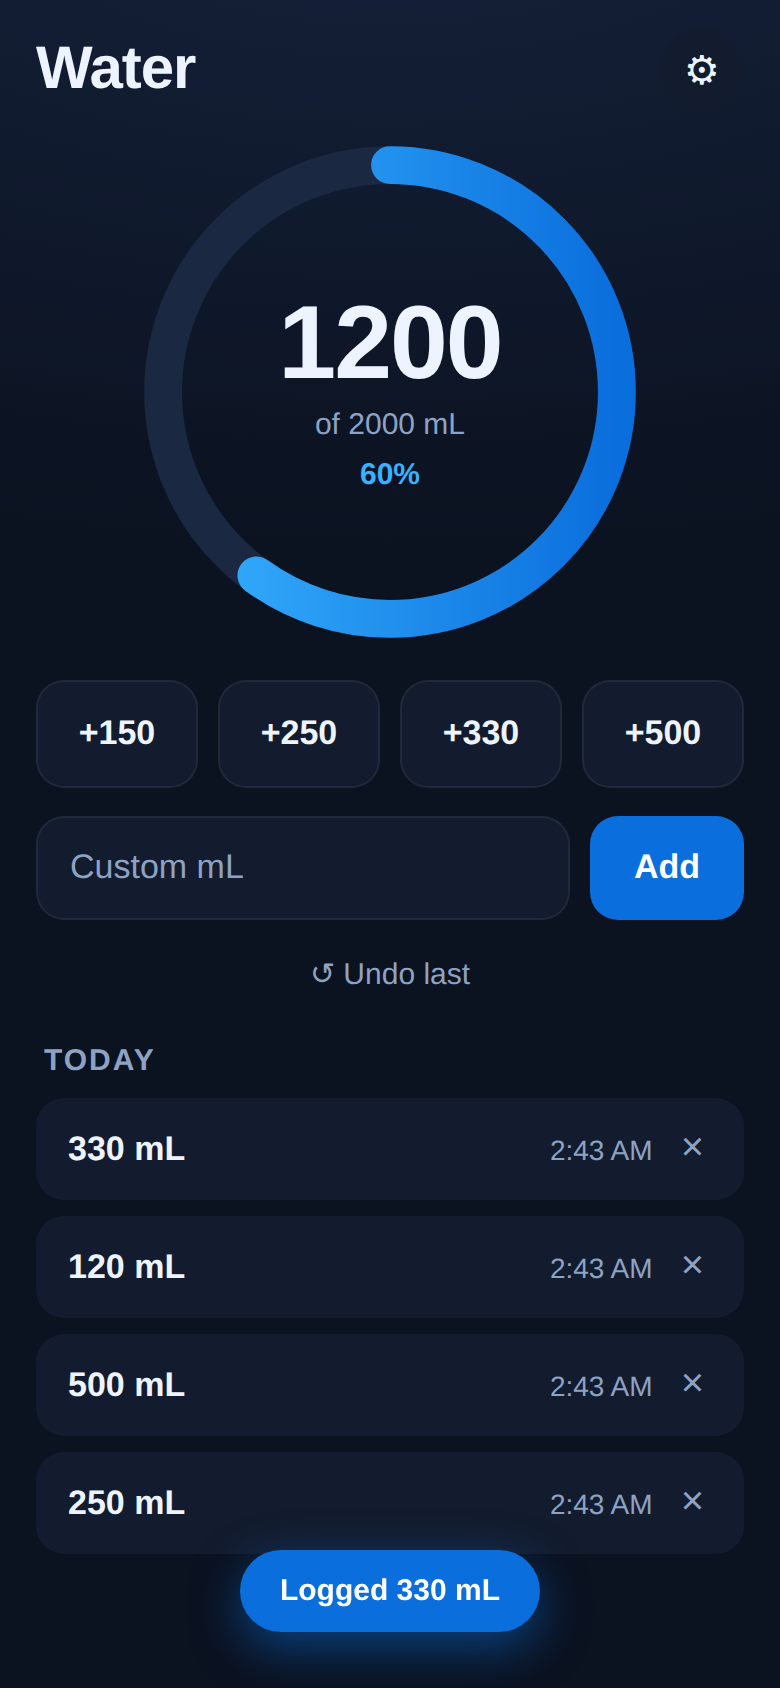
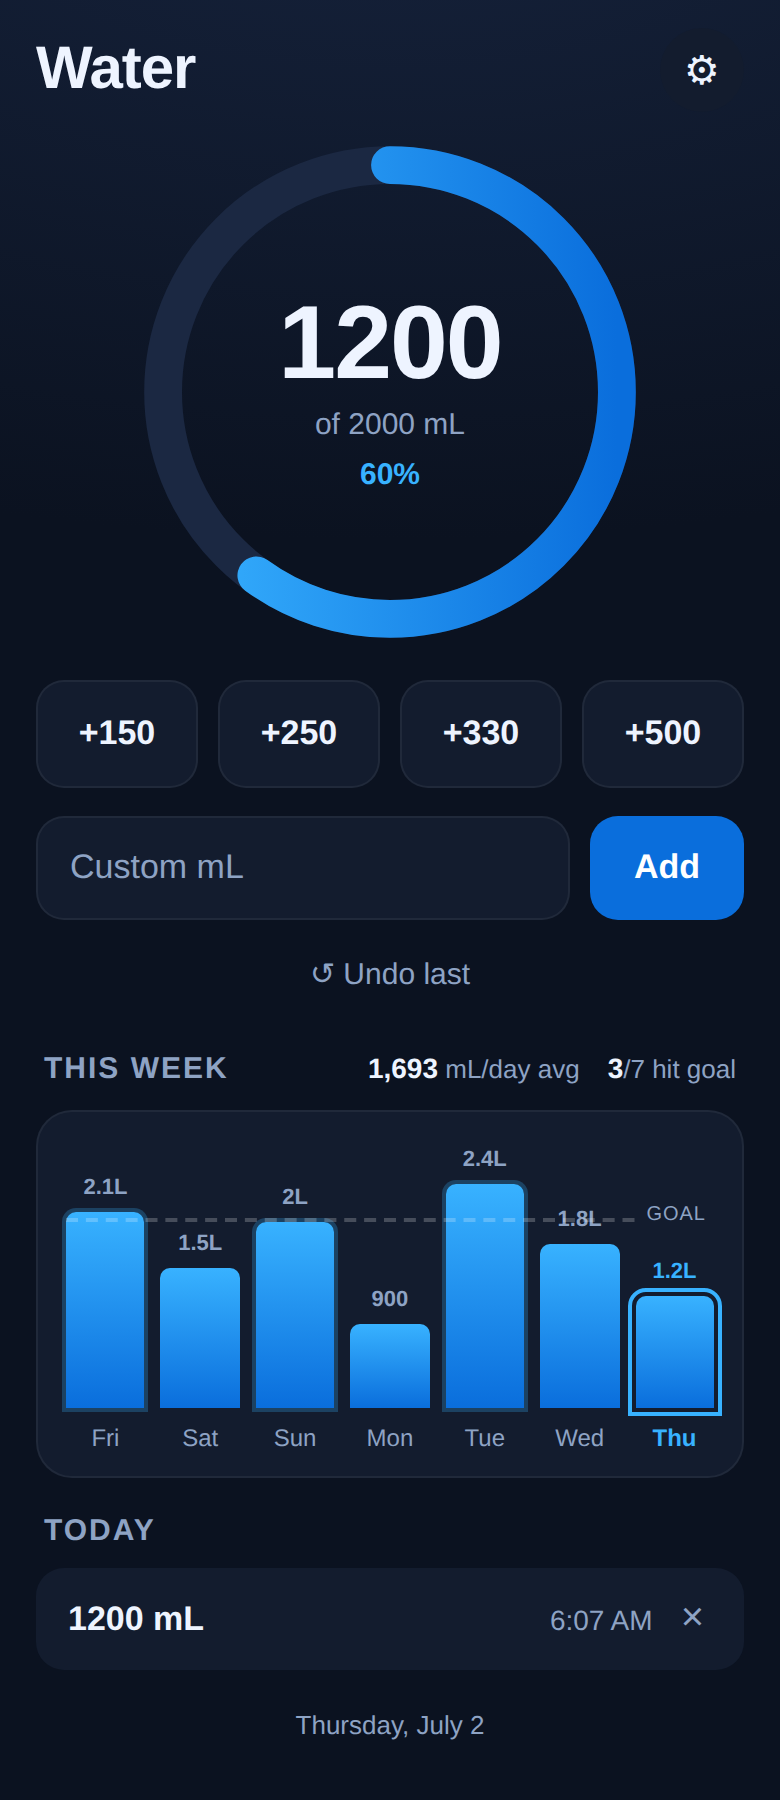
Add weekly dashboard of daily fluid intake
- Bar chart of the last 7 days (totals per day) with a dashed goal line
- Today highlighted; goal-met days marked; tap a bar for its exact total
- Weekly stats: average mL/day and number of days the goal was hit
- Values shown in L/mL; bars scale to the taller of goal or peak day
- Bumped service-worker cache to v2; extended smoke test to cover the chart

Claude-Session: https://claude.ai/code/session_01VM7W3BZjdm7NcmpQC72UCf

diff --git a/app.js b/app.js
@@ -17,6 +17,14 @@
     return d.getFullYear() + "-" + m + "-" + day;
   }
 
+  function dayKeyOffset(n) {
+    // Key for the day that is n days before today (n>=0), in local time.
+    var d = new Date();
+    d.setHours(12, 0, 0, 0); // noon avoids DST edge cases when subtracting days
+    d.setDate(d.getDate() - n);
+    return { key: todayKey(d), date: d };
+  }
+
   function prettyDate(key) {
     var parts = key.split("-");
     var d = new Date(+parts[0], +parts[1] - 1, +parts[2]);
@@ -76,7 +84,12 @@
     toast: document.getElementById("toast"),
     settingsSheet: document.getElementById("settingsSheet"),
     goalInput: document.getElementById("goalInput"),
-    customInput: document.getElementById("customInput")
+    customInput: document.getElementById("customInput"),
+    weekPlot: document.getElementById("weekPlot"),
+    weekDays: document.getElementById("weekDays"),
+    goalLine: document.getElementById("goalLine"),
+    weekAvg: document.getElementById("weekAvg"),
+    weekGoalDays: document.getElementById("weekGoalDays")
   };
 
   el.ringFill.style.strokeDasharray = RING_CIRC.toFixed(2);
@@ -128,6 +141,79 @@
     });
 
     el.dateLabel.textContent = prettyDate(todayKey());
+    renderWeek();
+  }
+
+  function dayTotal(key) {
+    var arr = state.days[key] || [];
+    return arr.reduce(function (s, e) { return s + e.amount; }, 0);
+  }
+
+  function renderWeek() {
+    var goal = state.goal;
+    var todayK = todayKey();
+
+    // Oldest -> newest across the last 7 days (index 0 = 6 days ago).
+    var days = [];
+    for (var n = 6; n >= 0; n--) days.push(dayKeyOffset(n));
+
+    var totals = days.map(function (d) { return dayTotal(d.key); });
+    var maxTotal = Math.max.apply(null, totals);
+    // Headroom above the taller of goal / peak day so value labels never clip.
+    var scaleMax = Math.max(goal, maxTotal) * 1.18 || 1;
+
+    // Weekly stats.
+    var sum = totals.reduce(function (a, b) { return a + b; }, 0);
+    var hit = totals.filter(function (t) { return t >= goal; }).length;
+    el.weekAvg.textContent = Math.round(sum / 7).toLocaleString();
+    el.weekGoalDays.textContent = hit;
+
+    // Goal reference line.
+    el.goalLine.style.bottom = (Math.min(1, goal / scaleMax) * 100).toFixed(1) + "%";
+
+    // Rebuild bars + day labels (keep the goal line node).
+    Array.prototype.slice.call(el.weekPlot.querySelectorAll(".bar"))
+      .forEach(function (b) { b.remove(); });
+    el.weekDays.innerHTML = "";
+
+    days.forEach(function (d, i) {
+      var total = totals[i];
+      var isToday = d.key === todayK;
+
+      var bar = document.createElement("div");
+      bar.className = "bar" +
+        (total === 0 ? " empty" : "") +
+        (total >= goal && total > 0 ? " met" : "") +
+        (isToday ? " today" : "");
+      var pct = total > 0 ? Math.max(3, (total / scaleMax) * 100) : 0;
+      bar.style.height = total > 0 ? pct.toFixed(1) + "%" : "4px";
+
+      if (total > 0) {
+        var val = document.createElement("div");
+        val.className = "bar-val";
+        val.textContent = total >= 1000
+          ? (total / 1000).toFixed(total % 1000 === 0 ? 0 : 1) + "L"
+          : total;
+        bar.appendChild(val);
+      }
+
+      var label = d.date.toLocaleDateString(undefined, { weekday: "short" });
+      bar.setAttribute("role", "img");
+      bar.setAttribute("aria-label", label + ": " + total + " mL");
+      bar.addEventListener("click", function () {
+        toast(label + ": " + total.toLocaleString() + " mL");
+      });
+      el.weekPlot.appendChild(bar);
+
+      var dl = document.createElement("div");
+      dl_set(dl, isToday, label);
+      el.weekDays.appendChild(dl);
+    });
+  }
+
+  function dl_set(node, isToday, label) {
+    node.className = "day-label" + (isToday ? " today" : "");
+    node.textContent = label;
   }
 
   // ---- Actions --------------------------------------------------------

diff --git a/style.css b/style.css
@@ -155,6 +155,94 @@ body {
   cursor: pointer;
 }
 
+/* Weekly dashboard */
+.week { margin-top: 22px; }
+.week-head {
+  display: flex;
+  align-items: baseline;
+  justify-content: space-between;
+  margin: 0 4px 12px;
+}
+.week-head h2 {
+  font-size: 15px;
+  text-transform: uppercase;
+  letter-spacing: 1px;
+  color: var(--muted);
+  margin: 0;
+}
+.week-stats { display: flex; gap: 14px; font-size: 13px; color: var(--muted); }
+.week-stats b { color: var(--text); font-size: 14px; }
+
+.week-chart {
+  background: var(--card);
+  border: 1px solid rgba(255,255,255,0.06);
+  border-radius: var(--radius);
+  padding: 16px 14px 12px;
+}
+.week-plot {
+  position: relative;
+  display: flex;
+  align-items: flex-end;
+  gap: 8px;
+  height: 132px;
+}
+.goal-line {
+  position: absolute;
+  left: 0;
+  right: 0;
+  border-top: 2px dashed rgba(255,255,255,0.22);
+  pointer-events: none;
+  z-index: 1;
+}
+.goal-tag {
+  position: absolute;
+  right: 0;
+  top: -9px;
+  background: var(--card);
+  color: var(--muted);
+  font-size: 10px;
+  letter-spacing: 0.5px;
+  text-transform: uppercase;
+  padding: 0 4px;
+}
+.bar {
+  position: relative;
+  flex: 1 1 0;
+  min-width: 0;
+  height: 4px; /* set inline */
+  background: linear-gradient(180deg, var(--blue-light), var(--blue));
+  border-radius: 5px 5px 0 0;
+  transition: height 0.5s cubic-bezier(0.22, 1, 0.36, 1);
+  cursor: pointer;
+}
+.bar.empty { background: var(--card-2); }
+.bar.met { box-shadow: 0 0 0 2px rgba(56,178,255,0.25); }
+.bar.today { outline: 2px solid var(--blue-light); outline-offset: 2px; }
+.bar-val {
+  position: absolute;
+  top: -18px;
+  left: 50%;
+  transform: translateX(-50%);
+  font-size: 11px;
+  font-weight: 700;
+  color: var(--muted);
+  white-space: nowrap;
+}
+.bar.today .bar-val { color: var(--blue-light); }
+.week-days {
+  display: flex;
+  gap: 8px;
+  margin-top: 8px;
+}
+.week-days .day-label {
+  flex: 1 1 0;
+  min-width: 0;
+  text-align: center;
+  font-size: 12px;
+  color: var(--muted);
+}
+.week-days .day-label.today { color: var(--blue-light); font-weight: 700; }
+
 /* Log */
 .log { margin-top: 18px; }
 .log h2, .sheet-panel h2 {

diff --git a/tools/preview_week.js b/tools/preview_week.js
@@ -1,0 +1,44 @@
+// Renders the app with a week of seeded history to preview the dashboard.
+const http = require("http");
+const fs = require("fs");
+const path = require("path");
+const { chromium } = require("playwright");
+
+const ROOT = path.join(__dirname, "..");
+const TYPES = { ".html": "text/html", ".js": "text/javascript", ".css": "text/css",
+  ".json": "application/json", ".png": "image/png" };
+
+const server = http.createServer((req, res) => {
+  let p = decodeURIComponent(req.url.split("?")[0]);
+  if (p === "/") p = "/index.html";
+  const file = path.join(ROOT, p);
+  if (!file.startsWith(ROOT) || !fs.existsSync(file)) { res.writeHead(404); return res.end("nf"); }
+  res.writeHead(200, { "Content-Type": TYPES[path.extname(file)] || "application/octet-stream" });
+  fs.createReadStream(file).pipe(res);
+});
+
+(async () => {
+  await new Promise((r) => server.listen(4322, r));
+  const browser = await chromium.launch({ executablePath: "/opt/pw-browsers/chromium-1194/chrome-linux/chrome" });
+  const ctx = await browser.newContext({ viewport: { width: 390, height: 900 }, deviceScaleFactor: 2 });
+  const page = await ctx.newPage();
+  await page.goto("http://localhost:4322/index.html", { waitUntil: "networkidle" });
+
+  // Seed the last 7 days with varied totals, then reload.
+  await page.evaluate(() => {
+    const key = (n) => { const d = new Date(); d.setHours(12,0,0,0); d.setDate(d.getDate()-n);
+      return d.getFullYear()+"-"+String(d.getMonth()+1).padStart(2,"0")+"-"+String(d.getDate()).padStart(2,"0"); };
+    const totals = { 6: 2100, 5: 1500, 4: 2000, 3: 900, 2: 2400, 1: 1750, 0: 1200 };
+    const days = {};
+    Object.keys(totals).forEach((n) => {
+      days[key(+n)] = totals[n] ? [{ amount: totals[n], ts: Date.now() - n*86400000 }] : [];
+    });
+    localStorage.setItem("waterTracker.v1", JSON.stringify({ goal: 2000, days }));
+  });
+  await page.reload({ waitUntil: "networkidle" });
+  await page.waitForTimeout(600);
+  await page.screenshot({ path: path.join(ROOT, "preview.png"), fullPage: true });
+  await browser.close();
+  server.close();
+  console.log("wrote preview.png");
+})();

diff --git a/tools/smoke.js b/tools/smoke.js
@@ -50,11 +50,22 @@ const server = http.createServer((req, res) => {
   console.log("Total after ?add=330:", totalAfterUrl, "(expect 1200)");
   console.log("URL after add:", page.url(), "(expect no ?add)");
 
+  // Weekly dashboard: 7 bars + 7 day labels, and today's bar reflects today's total.
+  const barCount = await page.locator("#weekPlot .bar").count();
+  const dayCount = await page.locator("#weekDays .day-label").count();
+  const todayBarLabel = await page.getAttribute("#weekPlot .bar.today", "aria-label");
+  const weekAvg = await page.textContent("#weekAvg");
+  console.log("Week bars:", barCount, "day labels:", dayCount, "(expect 7 / 7)");
+  console.log("Today bar aria:", todayBarLabel, "(expect 1200 mL)");
+  console.log("Week avg:", weekAvg);
+
   await page.screenshot({ path: path.join(__dirname, "..", "preview.png") });
 
   console.log("JS errors:", errors.length ? errors : "none");
   const pass = total.trim() === "870" && totalAfterReload.trim() === "870" &&
-    totalAfterUrl.trim() === "1200" && !page.url().includes("add=") && errors.length === 0;
+    totalAfterUrl.trim() === "1200" && !page.url().includes("add=") &&
+    barCount === 7 && dayCount === 7 && /1200 mL/.test(todayBarLabel || "") &&
+    errors.length === 0;
   console.log(pass ? "SMOKE PASS ✅" : "SMOKE FAIL ❌");
 
   await browser.close();

diff --git a/index.html b/index.html
@@ -62,6 +62,24 @@
 
     <button id="undoBtn" class="undo-btn" hidden>↺ Undo last</button>
 
+    <!-- Weekly dashboard -->
+    <section class="week">
+      <div class="week-head">
+        <h2>This week</h2>
+        <div class="week-stats">
+          <span><b id="weekAvg">0</b> mL/day avg</span>
+          <span><b id="weekGoalDays">0</b>/7 hit goal</span>
+        </div>
+      </div>
+      <div id="weekChart" class="week-chart" role="img"
+           aria-label="Daily fluid intake for the last 7 days">
+        <div class="week-plot" id="weekPlot">
+          <div class="goal-line" id="goalLine"><span class="goal-tag">goal</span></div>
+        </div>
+        <div class="week-days" id="weekDays"></div>
+      </div>
+    </section>
+
     <!-- Today's log -->
     <section class="log">
       <h2>Today</h2>

diff --git a/sw.js b/sw.js
@@ -1,6 +1,6 @@
 /* Simple offline cache for Water Tracker.
  * Bump CACHE when any cached asset changes to force an update. */
-var CACHE = "water-tracker-v1";
+var CACHE = "water-tracker-v2";
 var ASSETS = [
   "./",
   "./index.html",
